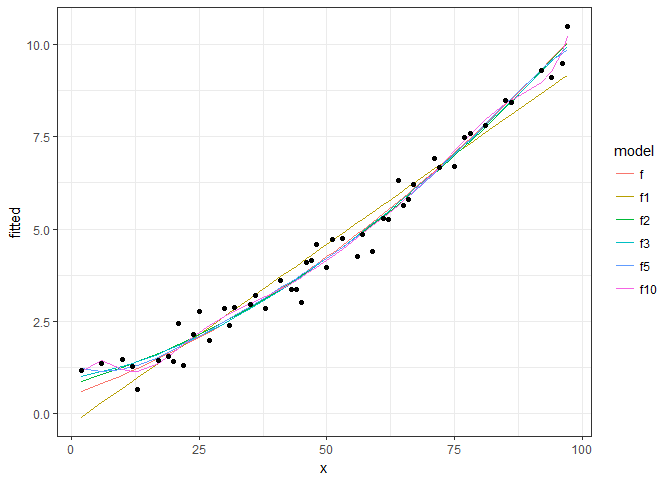
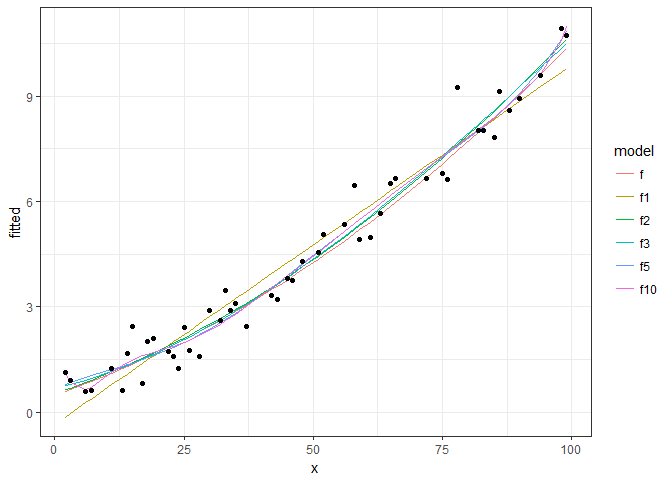
Inclusão do segundo case

diff --git a/Chapter01 - Intro/Assessing_Model_Accuracy.md b/Chapter01 - Intro/Assessing_Model_Accuracy.md
@@ -28,6 +28,8 @@ We want to choose the method that gives the lowest test MSE, as opposed to the l
 
 Let's simulate some situations to see how MSE~tr~ and MSE~ts against diferent fitting techniques, we'll use polinomials fit to simplify the cenarios.
 
+### Curve 1
+
 
 ```r
 # setup
@@ -131,5 +133,86 @@ ggplot(perf,aes(x=degree)) +
 
 ![](Assessing_Model_Accuracy_files/figure-html/perfCaseOne-1.png)<!-- -->
 
+We can see the behavior of MSE data, in the training data (Red) the incresing of the flexibility of the fit (degree in this case) will cause a continuos decreasing in the MSE value, but in the MSE of the test data we have a initial decreasing until some minimal value (de optimal fit) and then a increasing, showing that model overfitting the training set.
 
+
+
+### Courve 2
+
+Another example.
+
+
+```r
+DOMAIN <- runif(100, 1, 100)
+
+# function linear gausian noise sd=1
+f <- function(x) (-sin( (2*pi/length(DOMAIN)) * (x+10) )) * 2*x/100 + 0.001 * x
+noise <- function(x) 0.3*rnorm(x)
+
+data_frame(
+  x = DOMAIN,
+  f = f(x)
+) %>%
+  # adding noise
+  mutate(
+    y = f + noise(DOMAIN)
+  ) -> dt
+
+# separing in training and testing
+idx.tr <- sample(DOMAIN,round(length(DOMAIN)/2))
+dt_tr <- dt[idx.tr,]
+dt_ts <- dt[-idx.tr,]
+
+#  visualizing training data
+ggplot(dt_tr, aes(x=x)) +
+  geom_point(aes(y=y)) +
+  geom_line(aes(y=f), linetype="dotted") +
+  theme_bw()
+```
+
+![](Assessing_Model_Accuracy_files/figure-html/caseTwo-1.png)<!-- -->
+
+
+```r
+degrees <- c(1,2,3,5,10)
+
+models <- map(degrees, fitPoly, data=dt_tr)
+
+models %>%
+  map(function(model){model$fitted.values}) %>%
+  set_names(paste0("f",degrees)) %>%
+  as_data_frame() %>%
+  cbind(dt_tr, .) -> dt_tr_fit
+
+dt_tr_long <- dt_tr_fit %>%
+  melt(id.vars="x", variable.name="model", value.name = "fitted")
+
+ggplot(dt_tr_long) +
+  geom_line(data=dt_tr_long[dt_tr_long$model!="y",], aes(x=x, y=fitted, colour=model)) +
+  geom_point(data=dt_tr_long[dt_tr_long$model=="y",], aes(x=x,y=fitted)) +
+  theme_bw()
+```
+
+![](Assessing_Model_Accuracy_files/figure-html/fitCaseTwo-1.png)<!-- -->
+
+
+```r
+# performances
+perf <- data_frame(
+  degree = degrees,
+  MSE.tr = unlist(map(models, getMSE)),
+  MSE.ts = unlist(map(models, calcMSE, dt_ts))
+)
+
+MSE <- sum( (dt$y-dt$f)^2 ) / nrow(dt)
+
+ggplot(perf,aes(x=degree)) +
+  geom_line(aes(y=MSE.tr), colour="red") +
+  geom_line(aes(y=MSE.ts), colour="blue") +
+  geom_hline(yintercept = MSE, linetype="dashed") +
+  ylab("MSE") +
+  theme_bw()
+```
+
+![](Assessing_Model_Accuracy_files/figure-html/perfCaseTwo-1.png)<!-- -->
 
